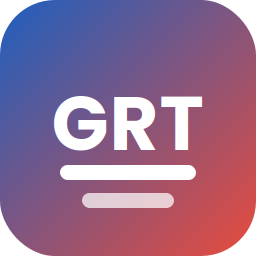
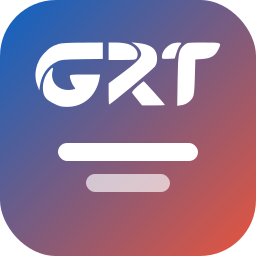
1.6.1 - логотип GRT в кривых

diff --git a/app/core/shortcut.py b/app/core/shortcut.py
@@ -86,7 +86,14 @@ def _create_in(folder: str) -> Path | None:
     if sys.platform != "win32":
         return None
     target, arguments = _target()
-    icon = ICON if ICON.exists() else target
+
+    # Иконка берётся из самого .exe, а не из отдельного файла. Так рабочий
+    # стол, панель задач и закреплённый элемент читают одну и ту же картинку
+    # и не могут разойтись: расходиться нечему.
+    if target.suffix.lower() == ".exe":
+        icon_location = f"{target},0"
+    else:
+        icon_location = str(ICON if ICON.exists() else target)
 
     script = _SCRIPT.format(
         folder=folder.replace("'", "''"),
@@ -94,7 +101,7 @@ def _create_in(folder: str) -> Path | None:
         target=str(target).replace("'", "''"),
         arguments=(f'"{arguments}"' if arguments else "").replace("'", "''"),
         workdir=str(env.ROOT).replace("'", "''"),
-        icon=str(icon).replace("'", "''"),
+        icon=icon_location.replace("'", "''"),
     )
     result = _powershell(script)
     return Path(result) if result else None
@@ -115,7 +122,7 @@ def local() -> Path:
     return env.ROOT / f"{NAME}.lnk"
 
 
-ICON_STAMP = "exe-v12"       # bump when the icon changes
+ICON_STAMP = "exe-v14"       # bump when the icon changes
 
 
 def ensure() -> tuple[Path | None, Path | None]:

diff --git a/app/core/env.py b/app/core/env.py
@@ -43,7 +43,7 @@ ASSETS = ROOT / "assets"
 # The icon file carries a version in its name on purpose. Windows caches icons
 # by path, so replacing the contents of a file it has already seen changes
 # nothing on screen — a new path is the only reliable way to refresh it.
-ICON_NAME = "icon-v12.ico"
+ICON_NAME = "icon-v14.ico"
 
 MODELS = ROOT / "models"
 LOGS = ROOT / "logs"
